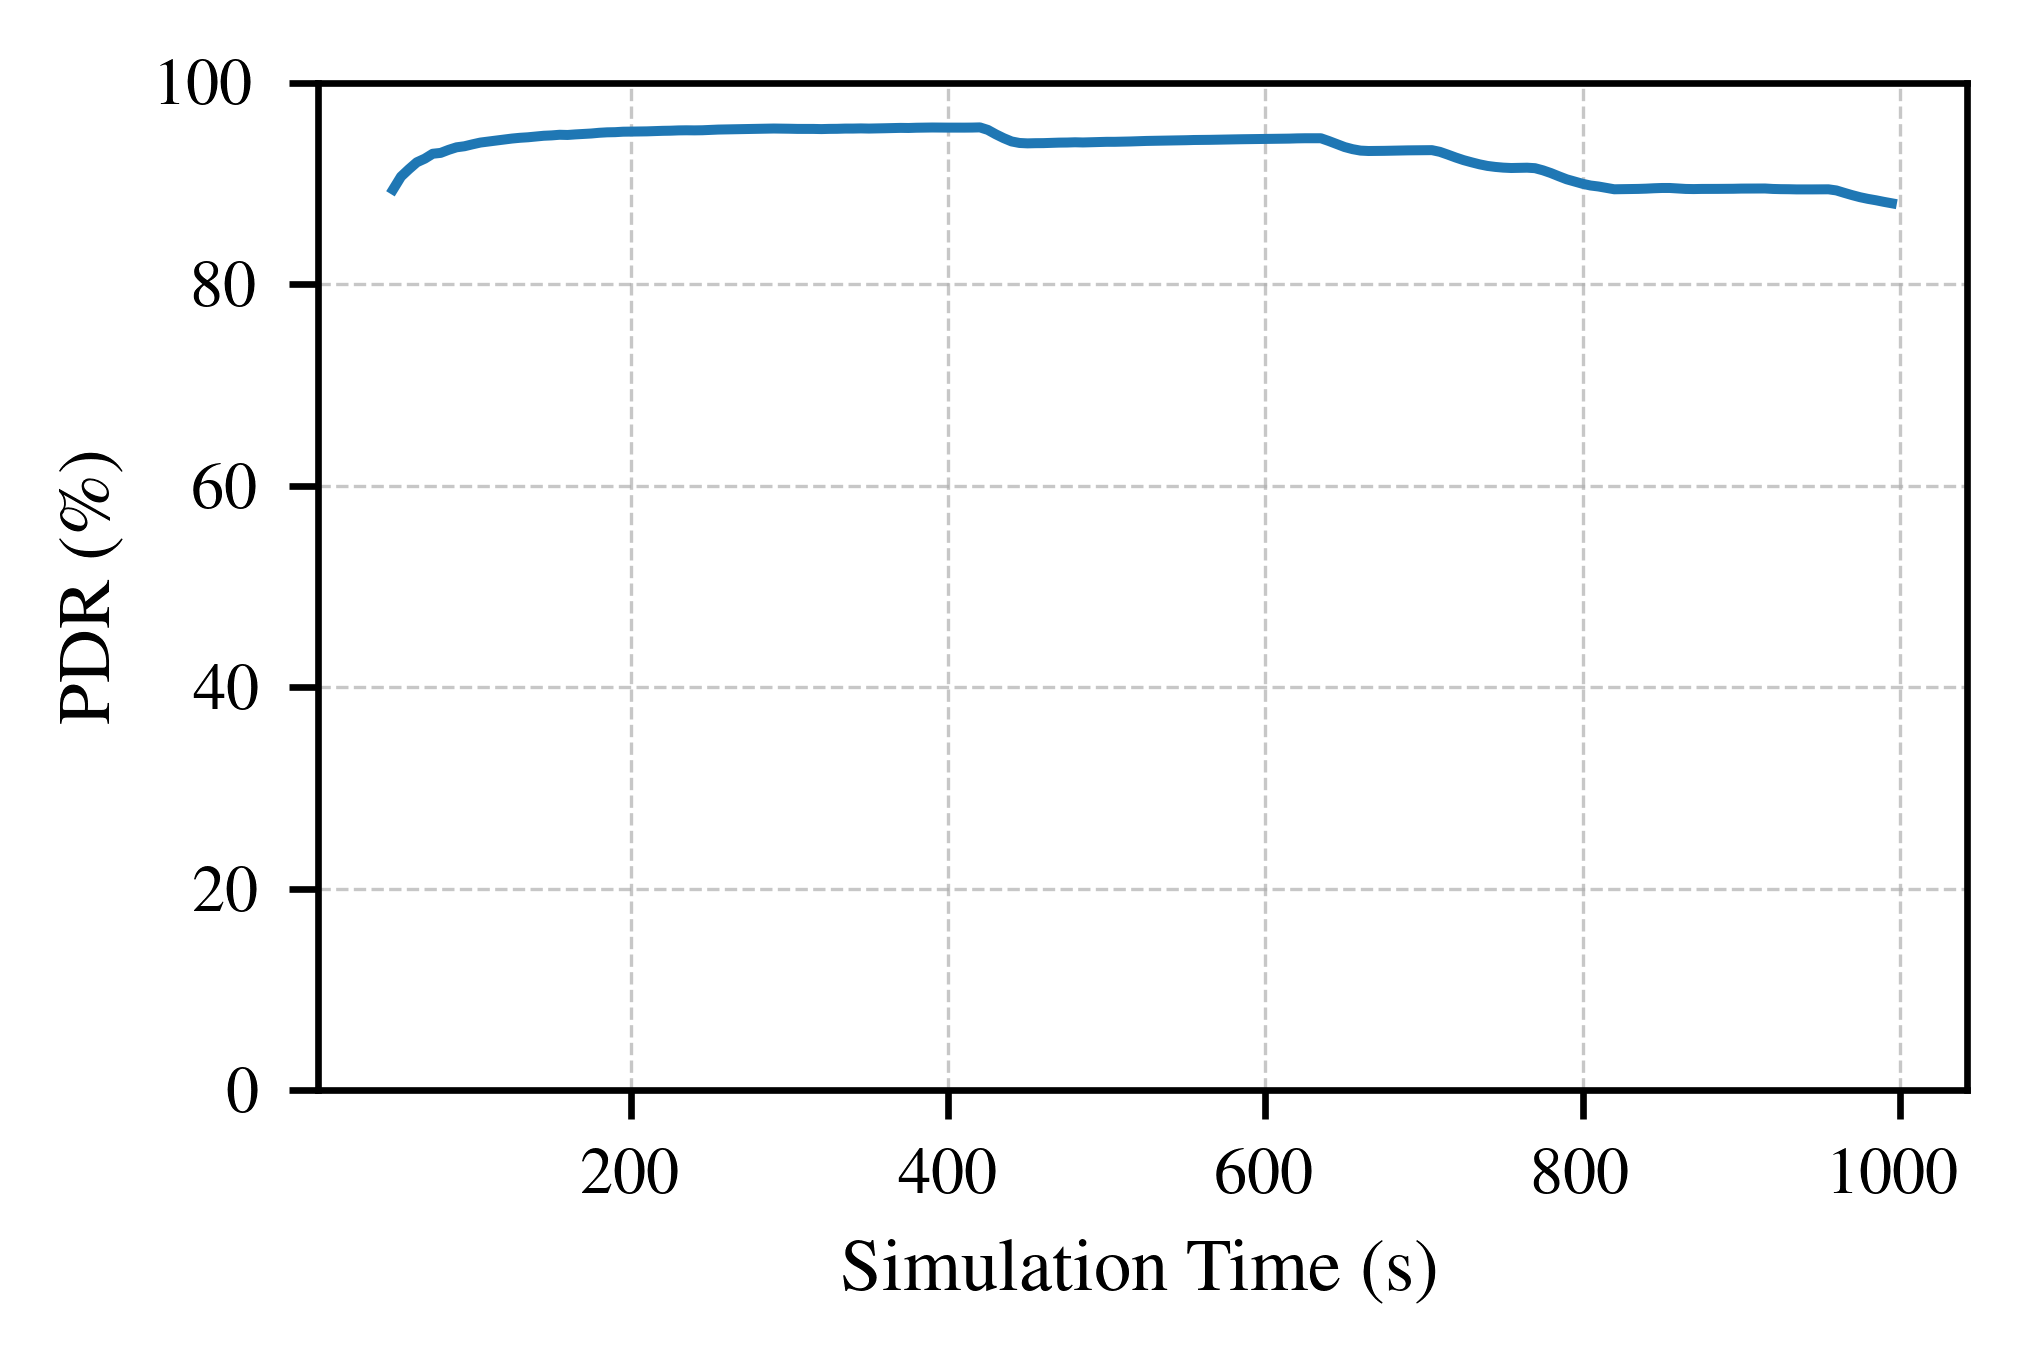
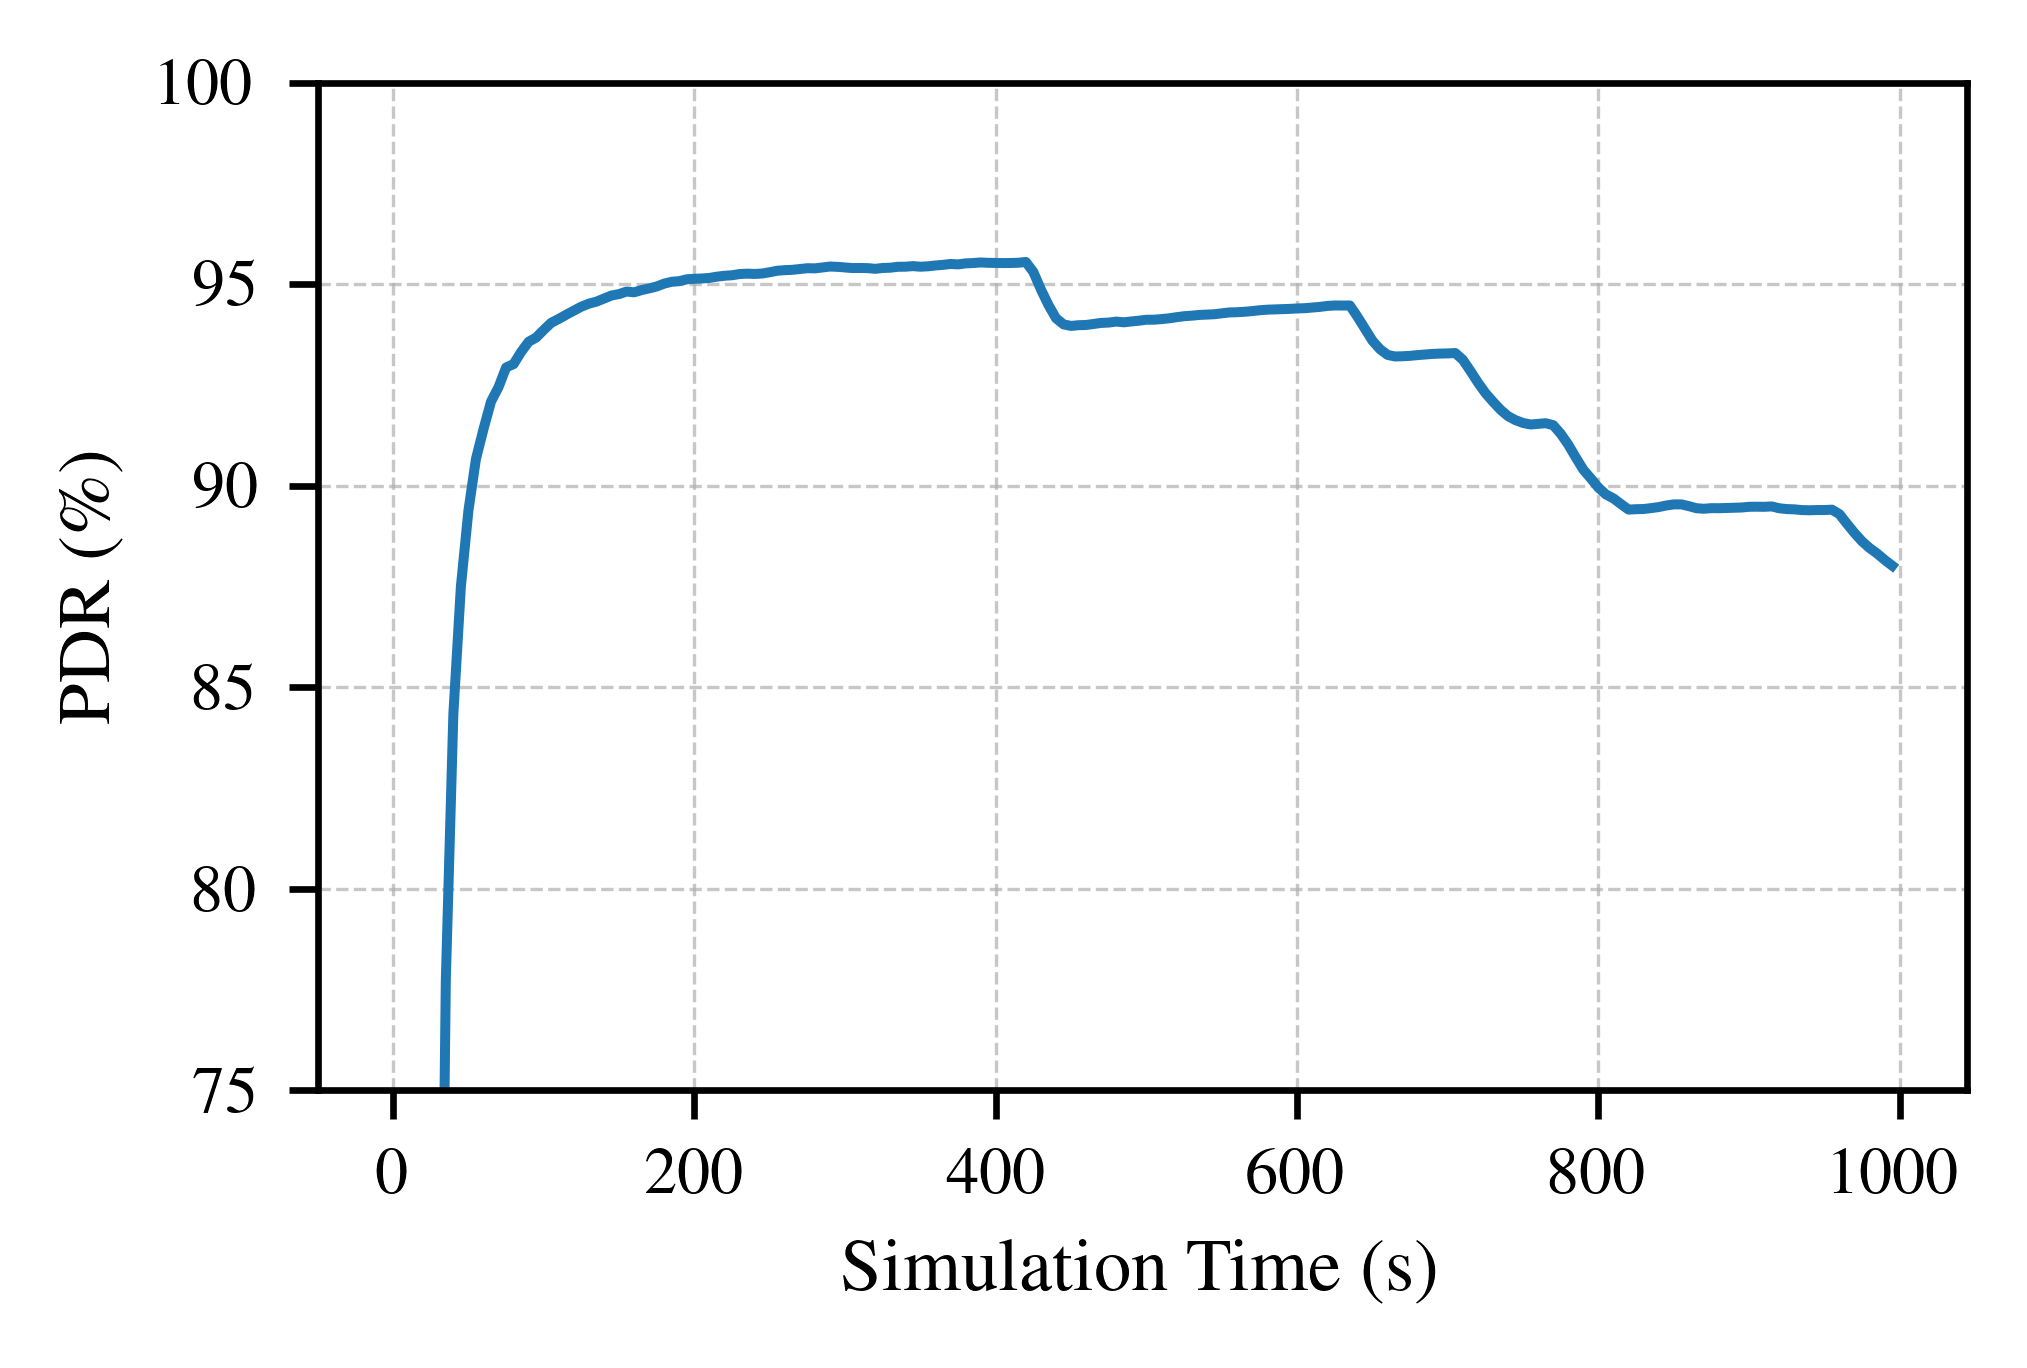
graphs

diff --git a/plots/pdr_over_time_plot.py b/plots/pdr_over_time_plot.py
@@ -37,7 +37,7 @@ def plot():
 
     times, pdrs = load_series(csv_path)
     # only show samples after certain time
-    clipped = [(t, p) for t, p in zip(times, pdrs) if t >= 50]
+    clipped = [(t, p) for t, p in zip(times, pdrs) if t >= 0]
     if clipped:
         times, pdrs = zip(*clipped)
         times = list(times)
@@ -51,7 +51,7 @@ def plot():
     ax.plot(times, pdrs, linewidth=1.2)
     ax.set_xlabel("Simulation Time (s)")
     ax.set_ylabel("PDR (\%)")
-    ax.set_ylim(0, 100)
+    ax.set_ylim(75, 100)
     ax.grid(True, linestyle="--", linewidth=0.4, alpha=0.7)
 
     fig.tight_layout()
